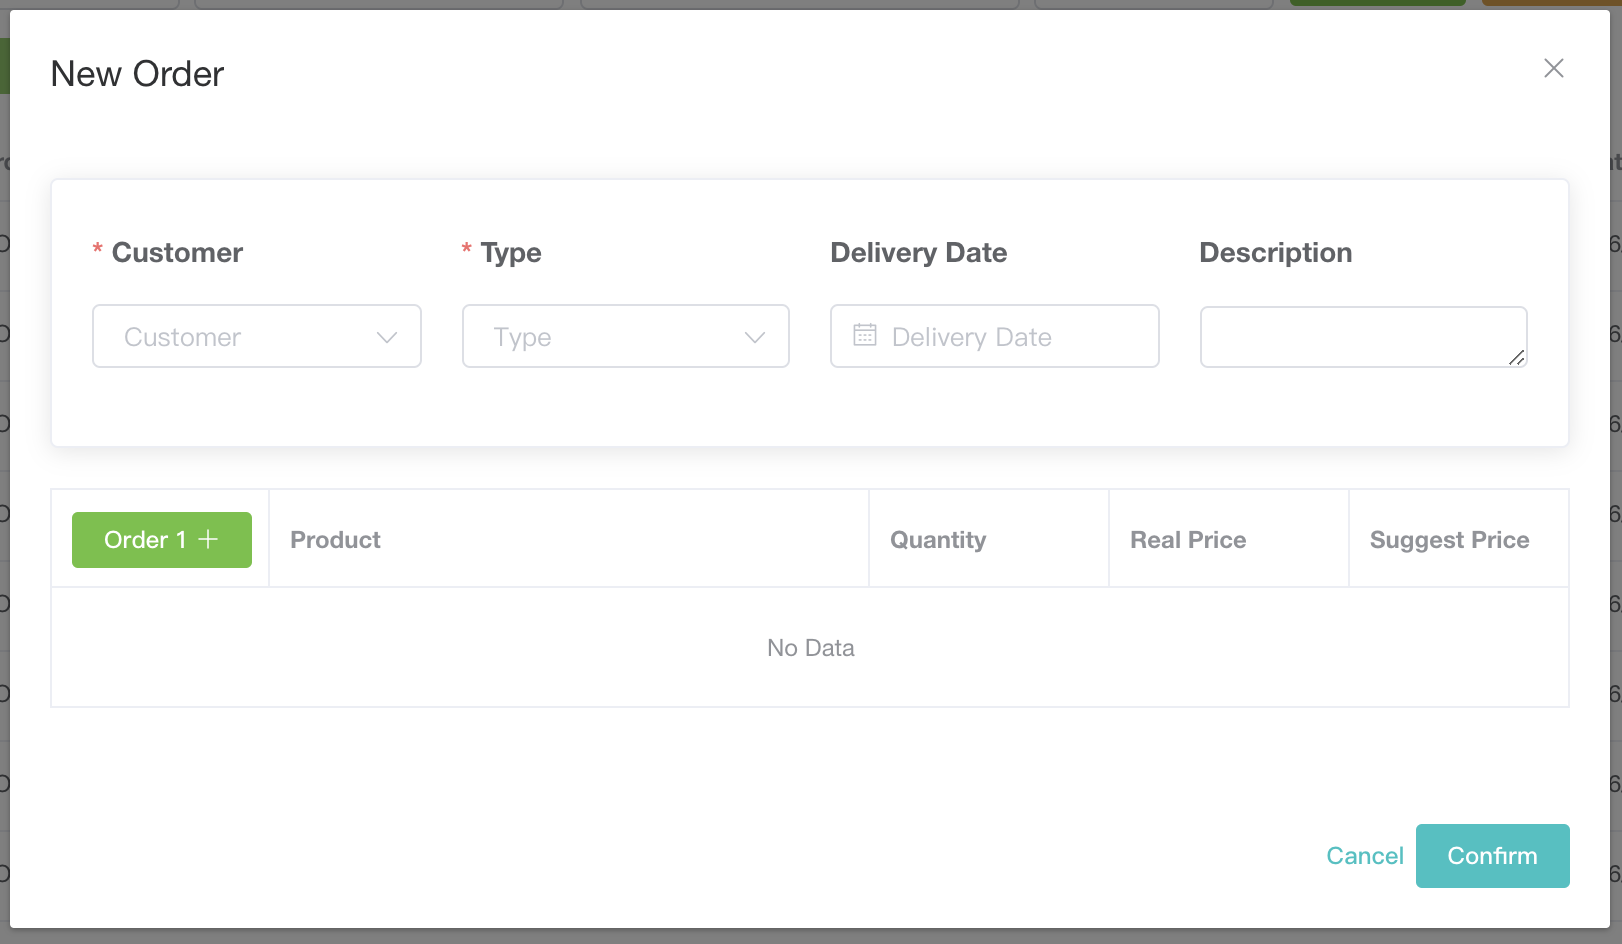
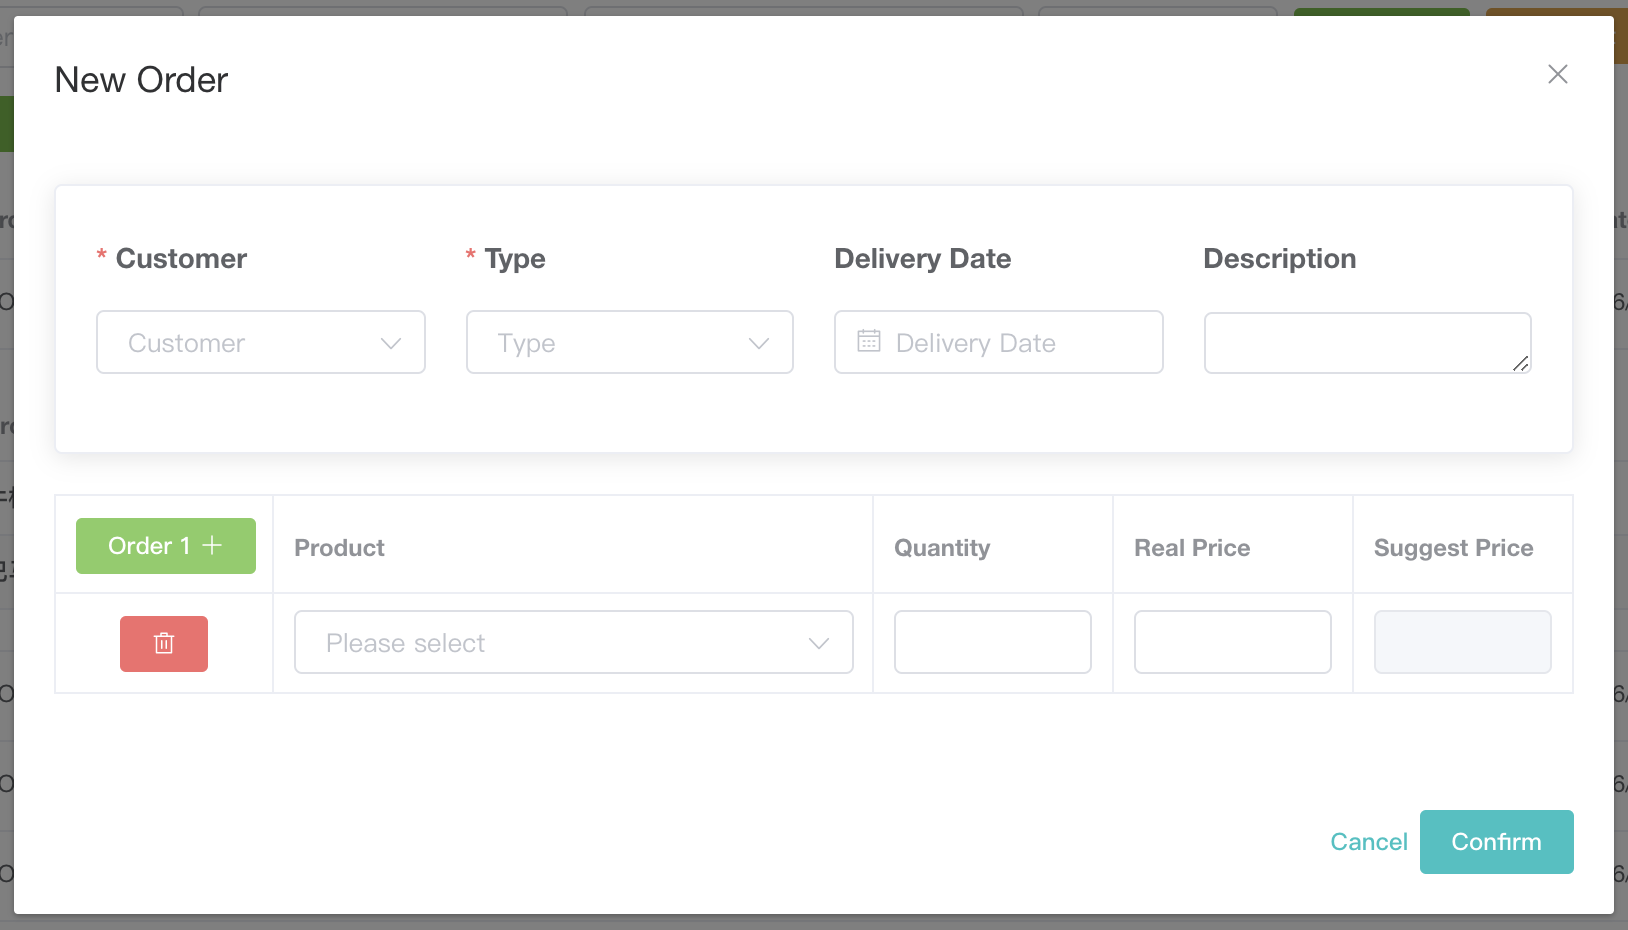
print

diff --git a/docs/function/order/order.md b/docs/function/order/order.md
@@ -10,17 +10,27 @@
 ![](/order/order.png)
 - 列表，`搜索、列表、分页`，功能有：`新增`、`编辑`、`删除`、`Post`
 - 搜索条件：订单编号是模糊匹配
+- 列表中首列是展开标识。展开后，可以看到[订单列表-展开](#订单列表-展开)
+- 订单状态请参考 [订单状态流转说明](#订单状态流转说明)
+- **编辑**：编辑后订单状态不变。只有（`Created`、`Picking`、`Picked`、`Checked`）状态才可编辑。不可编辑时按钮不可点击
+- **删除**：只有（`Created`）状态才可删除。订单从其他状态变回`Created`，需要的是对应的拣货单删除。
+- **Post**：单个订单的Post操作。一般来说，订单的post是拣货单Post后批量处理的，很少有单独订单post的需要。
+  - 只有（`Checked`）状态才可Post操作
+  - 操作后，订单变成Posted状态，且对应的库存也扣除。
+
+## 订单列表-展开
+![](/order/order-expend.png)
 
 ## 新增订单-普通订单
 ![](/order/order-add-normal.png)
 - 若选择的客户不能下飞单（无飞单账号），则页面表现如上，只有 `Order 1` 按钮。否则显示 `Order 1` 和 `Order 2` 两个按钮。参考 [飞单](#新增订单-飞单)
-- 点击 `Order 1` 按钮，会增加一行商品信息。Product列是下拉框。可以下单的商品列表都会显示出来。
+- 点击 `Order 1` 按钮，会增加一行商品信息，请参考[点击按钮后](#点击按钮后)。Product列是下拉框。可以下单的商品列表都会显示出来。
 - 选择商品后，会根据客户的星级决定`Suggest Price`和`Real Price`，具体逻辑是：
   - 某客户的星级是1~5之间，可以参考 [新增客户](../basic/customer#新增客户)。对应此商品的Sell Price 1~5，可以参考 [新增商品](../product/product#新增商品-基本信息)
   - `Suggest Price` 不可更改。
   - `Real Price` 可以更改，但是不允许低于此商品限定当前星级的最低售价。
 
-比如，某订单有如下设定。如果客户星级是4，则:
+**比如，某订单有如下设定。如果客户星级是4，则:**
 - `Suggest Price`和`Real Price`都默认:`200`
 - `Real Price` 最低可调整到：`180`
 
@@ -37,8 +47,9 @@
 - `Order 1` 和 `Order 2` 功能相同，但是会在各自的表格中添加一行。
 - `Order 2` 为飞单的商品列表。
 - **重要：** 新增订单时，如果Order 1 和 2 都有选择商品，会生成2个订单，一个是当前客户下单，一个是子客户下的飞单。
-#### 点击`Order 1` 和 `Order 2` 按钮后
+#### 点击按钮后
 ![](/order/order-add-all.png)
+- `Order 1` 和 `Order 2`
 - 每行红色按钮可以删除当前行
 - Quality是购买的数量
 
@@ -47,11 +58,6 @@
 - 新增订单和修改订单不同。新增时可以同时生成普通订单和飞单。而修改只能对其中一个订单进行修改。
 - 修改时，不允许修改客户和订单类型。
 - 其他同新增订单一样。
-
-## 操作订单功能
-- **编辑**：编辑后订单状态不变。只有（`Created`、`Picking`、`Picked`）状态才可编辑
-- **删除**：只有（`Created`）状态才可删除
-- **Post**：编辑后订单状态不变。
 
 ## 订单状态流转说明
 - 订单状态目前设定10种，如下图所示。
@@ -63,23 +69,11 @@
 |  `Picking`   |  拣货中   |  【[订单打印](../print/OrderPrint)】打印后   |   编辑  |   状态流转是由拣货单进行批量控制的  |
 |  `Picked`   |  已拣货   |  【[拣货单](../print/pickup)】完成拣货后   |  编辑   |   状态流转是由拣货单进行批量控制的  |
 |  `Checked`   |  已核对   |  【[拣货单](../print/pickup)】完成核对后   |  编辑   |   状态流转是由拣货单进行批量控制的  |
-|  `Posted`   |  已POST   |  【[拣货单](../print/pickup)】手工POST   |   -  |   状态流转是由拣货单进行批量控制的  |
-|  `Delivering`   |  配送中   |  【配送单】打印后   |  -   |  拣货单POST后，打印配送单。待后续有司机端再交给司机端处理  |
-|  `Complete`   |  已完成   |  配送后，快递员拿回配送单后，谁操作什么？）   |   -  |   -  |
-|  `Sales Return`   |  退货   |  创建退货单   |  -   |   -  |
+|  `Posted`   |  已POST   |  1，【[拣货单](../print/pickup)】Post <br>2，订单单独Post  |   -  |   拣货单批量控制和订单自行Post  |
+|  `Delivering`   |  配送中   |  【配送单】打印后   |  -   |  拣货单Post后，打印配送单。待后续有司机端再交给司机端处理  |
+|  `Complete`   |  已完成   |  【[拣货单](../print/pickup)】Complete）   |   -  |   配送后，快递员拿回配送单后，订单管理人员操作  |
+|  `Sales Return`   |  退货   |  创建退货单后，订单状态变为退货   |  -   |  `拒收、退货、完成`属于订单的最终归宿，没有后续操作  |
 |  `Rejected`   |  拒收   |  （预留）   |   -  |   -  |
-|  `Canceled`   |  取消   |  取消   |   -  |   -  |
+|  `Canceled`   |  取消   |  （预留）   |   -  |   -  |
 
-- `Created`: 已下单，创建订单
-- `Picking`: 拣货中（打印拣货单后，完成拣货之前）
-- `Picked`: 已拣货（完成拣货后）
-- `Checked`: （完成核对后）
-- `Posted`: 已POST（核对后手工POST）
-- `Delivering`: 配送中（POST后才可以打印配送单，打印配送单后变成配送中）
-- `Complete`: 已完成（配送后，快递员拿回配送单后，谁操作什么？）
-- `Sales Return`: 退货
-- `Rejected`: 拒收（预留）
-- `Canceled`: 取消
-- 修改时，不允许修改客户和订单类型。
-- 其他同新增订单一样。
 

diff --git a/docs/function/print/pickup.md b/docs/function/print/pickup.md
@@ -1,1 +1,63 @@
 # 拣货单
+
+::: tip
+- 订单打印功能，主要是通过多选查询的订单，去打印拣货单，或者批量打印发票
+- `拣货单`打印后，会在拣货单管理中生成一个拣货单，供后续业务开展。
+- `发票`，可以单独多次打印
+:::
+
+## 功能预览
+![](/print/pickup.png)
+- `拣货单`有几种状态：`Printed`、`Picked`、`Checked`、`Posted`、`Deleted`，会对订单产生积极影响。
+- `打印发票`，这里的打印发票只能是批量打印。如果想单个订单的发票打印，请去[订单打印](../print/OrderPrint)
+
+**按钮或功能说明：**
+- `打印外部采购单（Outsourced goods）`，当前拣货单对应的外部采购单。两种单据的订单列表是相同的。
+- `打印装车单（Loading orders）`，装车单，是整合拣货单和外部拣货单的所有货品，根据线路分组。
+- `打印配送单（Delivery note）`，属于给司机的。一般来说每个配送地址或每个客户是一张单子。即使有空白位置也不再打印其他地址的内容。
+- `打印发票（Inovice）`，每个订单一张发票。
+- `查看拣货单（View）`，查看之前打印的拣货单。查看的Dialog还可以再次进行[系统级打印](../print/OrderPrint#系统级打印)，不对订单或拣货单有任何状态影响了。
+- `删除拣货单（Delete）`，未Post的拣货单是可以删除的。删除后，本拣货单包括的所有订单回归到`Created`状态，请参考[订单状态](../order/order#订单状态流转说明) 
+- `完成拣货（Finish）`，拣货单完成拣货。拣货单状态更新成`Picked`，对应的订单都更新成`Picked`。
+- `完成审核（Check）`，拣货单完成审核。拣货单状态更新成`Checked`，对应的订单都更新成`Checked`。
+- `Post拣货单（Post）`，拣货单Post。Post的拣货单不再可以删除。同时可以继续进行装车单，配送单的打印了。此时拣货单状态更新成`Posted`，对应的订单都更新成`Posted`。
+
+**按钮跟着拣货单状态而不同，具体如下表所示**
+
+|  拣货单状态 |   可用按钮  |   禁用或不显示按钮  |   对订单状态影响  |
+|  --- |   ---  |   ---  |   ---  |
+|  `Printed`  | [View](#view)<br>[Delete](#delete)<br>[Finish](#finish) | [Outsourced goods](#outsourced-goods)<br>[Loading orders](#loading-orders)<br>[Delivery note](#delivery-note)<br>[Inovice](#inovice)<br>[Check](#check)<br>[Post](#post) | 此时订单状态是`Picking`<br>请参考[订单状态](../order/order#订单状态流转说明) |
+|  `Picked`  | [View](#view)<br>[Delete](#delete)<br>[Check](#check) | [Outsourced goods](#outsourced-goods)<br>[Loading orders](#loading-orders)<br>[Delivery note](#delivery-note)<br>[Inovice](#inovice)<br>[Finish](#finish)<br>[Post](#post) | 此时订单状态是`Picked`<br>请参考[订单状态](../order/order#订单状态流转说明) |
+|  `Checked`  | [View](#view)<br>[Delete](#delete)<br>[Post](#post) | [Outsourced goods](#outsourced-goods)<br>[Loading orders](#loading-orders)<br>[Delivery note](#delivery-note)<br>[Inovice](#inovice)<br>[Finish](#finish)<br>[Check](#check) | 此时订单状态是`Checked`<br>请参考[订单状态](../order/order#订单状态流转说明) |
+|  `Posted`  | [View](#view)<br>[Outsourced goods](#outsourced-goods)<br>[Loading orders](#loading-orders)<br>[Delivery note](#delivery-note)<br>[Inovice](#inovice) | [Check](#check)<br>[Post](#post)<br>[Delete](#delete)<br>[Finish](#finish) | 此时订单状态是`Posted`<br>请参考[订单状态](../order/order#订单状态流转说明) |
+|  `Deleted`  | [View](#view)<br>[Delete](#delete)<br>[Finish](#finish) | [Outsourced goods](#outsourced-goods)<br>[Loading orders](#loading-orders)<br>[Delivery note](#delivery-note)<br>[Inovice](#inovice)<br>[Check](#check)<br>[Post](#post) | 此时订单状态是`Created`<br>请参考[订单状态](../order/order#订单状态流转说明) |
+
+
+## View
+![](/print/pickup-view.png)
+- 可以随时打印。可参考 [系统级打印](../print/OrderPrint#系统级打印)
+
+## Delete
+![](/print/pickup-delete.png)
+- 确认提示框
+
+## Finish
+![](/print/pickup-finish.png)
+- Employee Id（拣货人Id），是[用户管理](../system/user#新增用户)中维护的信息。员工有个自己的条码，这里可以用扫码枪扫码进行快速录入。
+
+## Check
+![](/print/pickup-check.png)
+- Employee Id（审核人Id），是[用户管理](../system/user#新增用户)中维护的信息。员工有个自己的条码，这里可以用扫码枪扫码进行快速录入。
+
+## Post
+![](/print/pickup-post.png)
+- 确认提示框
+
+## Outsourced-goods
+- TODO
+## Loading-orders
+- TODO
+## Delivery-note
+- TODO
+## Inovice
+- TODO

diff --git a/docs/function/print/OrderPrint.md b/docs/function/print/OrderPrint.md
@@ -1,1 +1,35 @@
 # 订单打印
+
+::: tip
+- 订单打印功能，主要是通过多选查询的订单，去打印拣货单，或者批量打印发票
+- `拣货单`打印后，会在拣货单管理中生成一个拣货单，供后续业务开展。
+- `发票`，可以单独多次打印
+:::
+
+## 功能预览
+![](/print/orderPrint.png)
+- 列表，`搜索、列表`，功能有：`打印拣货单`、`打印发票`
+- 搜索条件：线路和送货日期是必填项
+- `打印发票`可以随时打印。多选时挨个打印，每个发票的日期默认为配送日期。单选时可以先指定打印发票的日期，默认为配送日期。
+- 拣货单打印后会生成拣货单，拣货单是不可以更改的，只能删除后重新打印。主要是防止系统和纸质的对应不上。请参考[拣货单](../print/pickup)
+
+## 查询
+![](/print/orderPrint-search.png)
+- 线路和送货日期是必填项，因为只能选择同一天同一线路的订单去打印拣货单。后续还要根据此拣货单去打印配送单。
+- 哪些订单状态可以打印拣货单，有两种方案，如表格所示。目前设定为方案2
+
+|  方案 |   逻辑  |   优势  |   劣势  |
+|---  |--- | --- | --- |
+|  1、所有状态的订单都可以打印拣货单   |  订单状态如果为`Created`，则更新状态为`Picking`；<br>其他状态不变化，防止某订单已拣货完成被更新成拣货中。   |  随时可以补打   |  可能会造成一个订单多次拣货   |
+|  2、只有`Created`状态的订单可以打印   |  1，更新订单状态为`Picking`<br>2，打印时选择的订单的状态只能都是`Created`，因为其他状态代表着已打印过   |  不会造成同一个订单多次拣货   |  限定比较严格，单独补打比较费劲。  |
+- 打印拣货单按钮（Print Pickup orders），出现[打印拣货单](#打印拣货单)页面。数据是选择的所有订单生成的。
+
+## 打印拣货单
+![](/print/orderPrint-pickup.png)
+- 此页面是根据[商品分类](../basic/category)、[商品](../product/product)名称分组生成的。便于拣货。
+- 拣货单编号系统层面已控制，不会重复。即使同一时间有多个拣货单打印，系统也已控制不会重复。
+- `打印拣货单`按钮是调用系统的打印方案，即：windows.print 方法。同时，打印时会屏蔽掉此按钮。
+- [系统级打印](#系统级打印)，表现是一样的。可以另存为PDF，也可直接调动打印机直接打印。
+
+## 系统级打印
+![](/print/orderPrint-printer.png)

diff --git a/docs/function/print/README.md b/docs/function/print/README.md
@@ -1,1 +1,10 @@
 # 打印管理总览
+
+::: tip
+- 业务层面需要打印的单据有：`拣货单`、`外部采购单`、`装车单`、`配送单`、`发票`等五种票据。
+- 【`拣货单`】，基本属于打印的首要功能。订单后的业务从拣货单开始。
+- 【`发票`】，可以单独多次打印
+- 【`外部采购单`、`装车单`、`配送单`】，这三种单据都需要在拣货单基础上去打印。中间有一定的业务逻辑，比如：
+  - `拣货单`有几种状态：`Printed`、`Picked`、`Checked`、`Deleted`，会对订单产生积极影响，详情请参考 [拣货单](../print/pickup)
+  - `装车单`和`配送单`需要在`拣货单`Post后才可以打印。因为在Post前拣货可能有货物不充足的情况。
+:::
